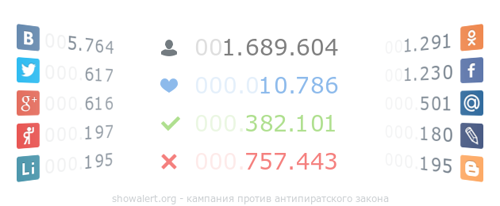
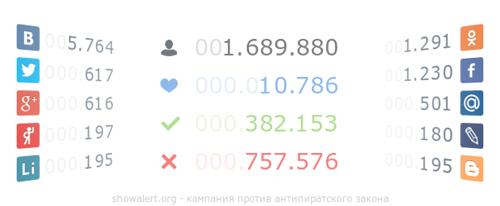
update statistics files for plugins

Changed region(s): [[0.57, 0.7282, 0.69, 0.8447], [0.57, 0.1748, 0.69, 0.2621], [0.6, 0.5534, 0.69, 0.6408]]

diff --git a/votes.js b/votes.js
@@ -1,1 +1,1 @@
-window.lk.votes(33395)
+window.lk.votes(33401)
